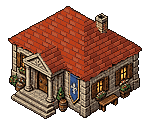
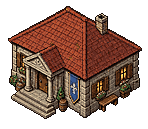
fix: GPT red roofs back to the first style pass (user's choice B); red roof treatment behind RED_ROOFS
style_match.RED_ROOFS (off) gates the red roofs' course re-draw and their
value, saturation and course-contrast fit, so the courthouse, town hall, jail
and watchtower roofs are a15e79e's painted tiles again (same knobs, roof pixels
identical bar three lit-pane px). The slate re-draw and fit, the filled stone
ruins, the outline, palette lock, lit panes and stone saturation stay. The
watchtower has no lit pane left, so its glow mask goes.

diff --git a/tools/dev/ref_convert/style_match.py b/tools/dev/ref_convert/style_match.py
@@ -77,6 +77,10 @@ COURSE = {ss.BLUE: dict(p=4, light=1.16, dark=0.72, keep=0.5, joint=0, joint_dar
                         mottle=(ss.GREY,), hole=120),
           ss.RED: dict(p=5, light=1.12, dark=0.7, keep=0.3, joint=6, joint_dark=0.8, var=0.05,
                        mottle=(ss.GREY, ss.TIMBER, ss.GREEN), hole=40)}
+# The red roofs' own treatment (their course re-draw, and their value, saturation and course contrast fitted to the
+# reference roofs) is off: the user chose the first pass's red roofs (a15e79e), which keep the painted tiles. True
+# brings it back; the slate's re-draw and fit stay on either way.
+RED_ROOFS = False
 SLATE_MIN = 400         # a roof piece smaller than this (px) is a banner, a shield or a flower box, not a roof
 SLATE_CLOSE = 2         # roof_mask()'s closing radius
 TILE_GAIN = (0.2, 3.0)  # the red courses' contrast bounds (tune() fits it to the reference roofs' edge contrast)
@@ -442,6 +446,11 @@ def slate_planes(L, m):
     return np.where(vote >= 0, 1, -1)
 
 
+def roof_materials():
+    """The roof materials the pass re-draws and fits: the slate, and the red tiles only with RED_ROOFS."""
+    return [m for m in COURSE if m != ss.RED or RED_ROOFS]
+
+
 def courses(a, m, mat, contrast=1.0, ref=None, fam=None):
     """A roof (mask m, material mat) re-drawn as courses, as the in-game roofs are (COURSE[mat]): the tone is the
     roof's own colour per face, the painting's light across the face kept at `keep` (its mottling and speckle go);
@@ -562,7 +571,7 @@ def match(a, knobs, light=False, glow=True, ref=None):
             if ref is not None:
                 r, rfam, _, _ = _prep(ref, knobs)
             fam0 = fam
-            for mat in COURSE:
+            for mat in roof_materials():
                 sm = roof_mask(a, fam0, mat)
                 if r is not None:
                     sm &= roof_mask(r, rfam, mat)
@@ -633,6 +642,8 @@ def _roofs(intact, k, img, rounds):
         rs = roof_stats(img)
         moved = False
         for m, (lr, sr, er) in ref.items():
+            if m not in roof_materials():
+                continue
             if m not in rs or rs[m][2] < ROOF_MIN or (m not in roof and abs(rs[m][0] - lr) > ROOF_NEAR):
                 continue                # no roof of that material (the armoury's reds are its dark shed timber)
             L, S, _, E = rs[m]
